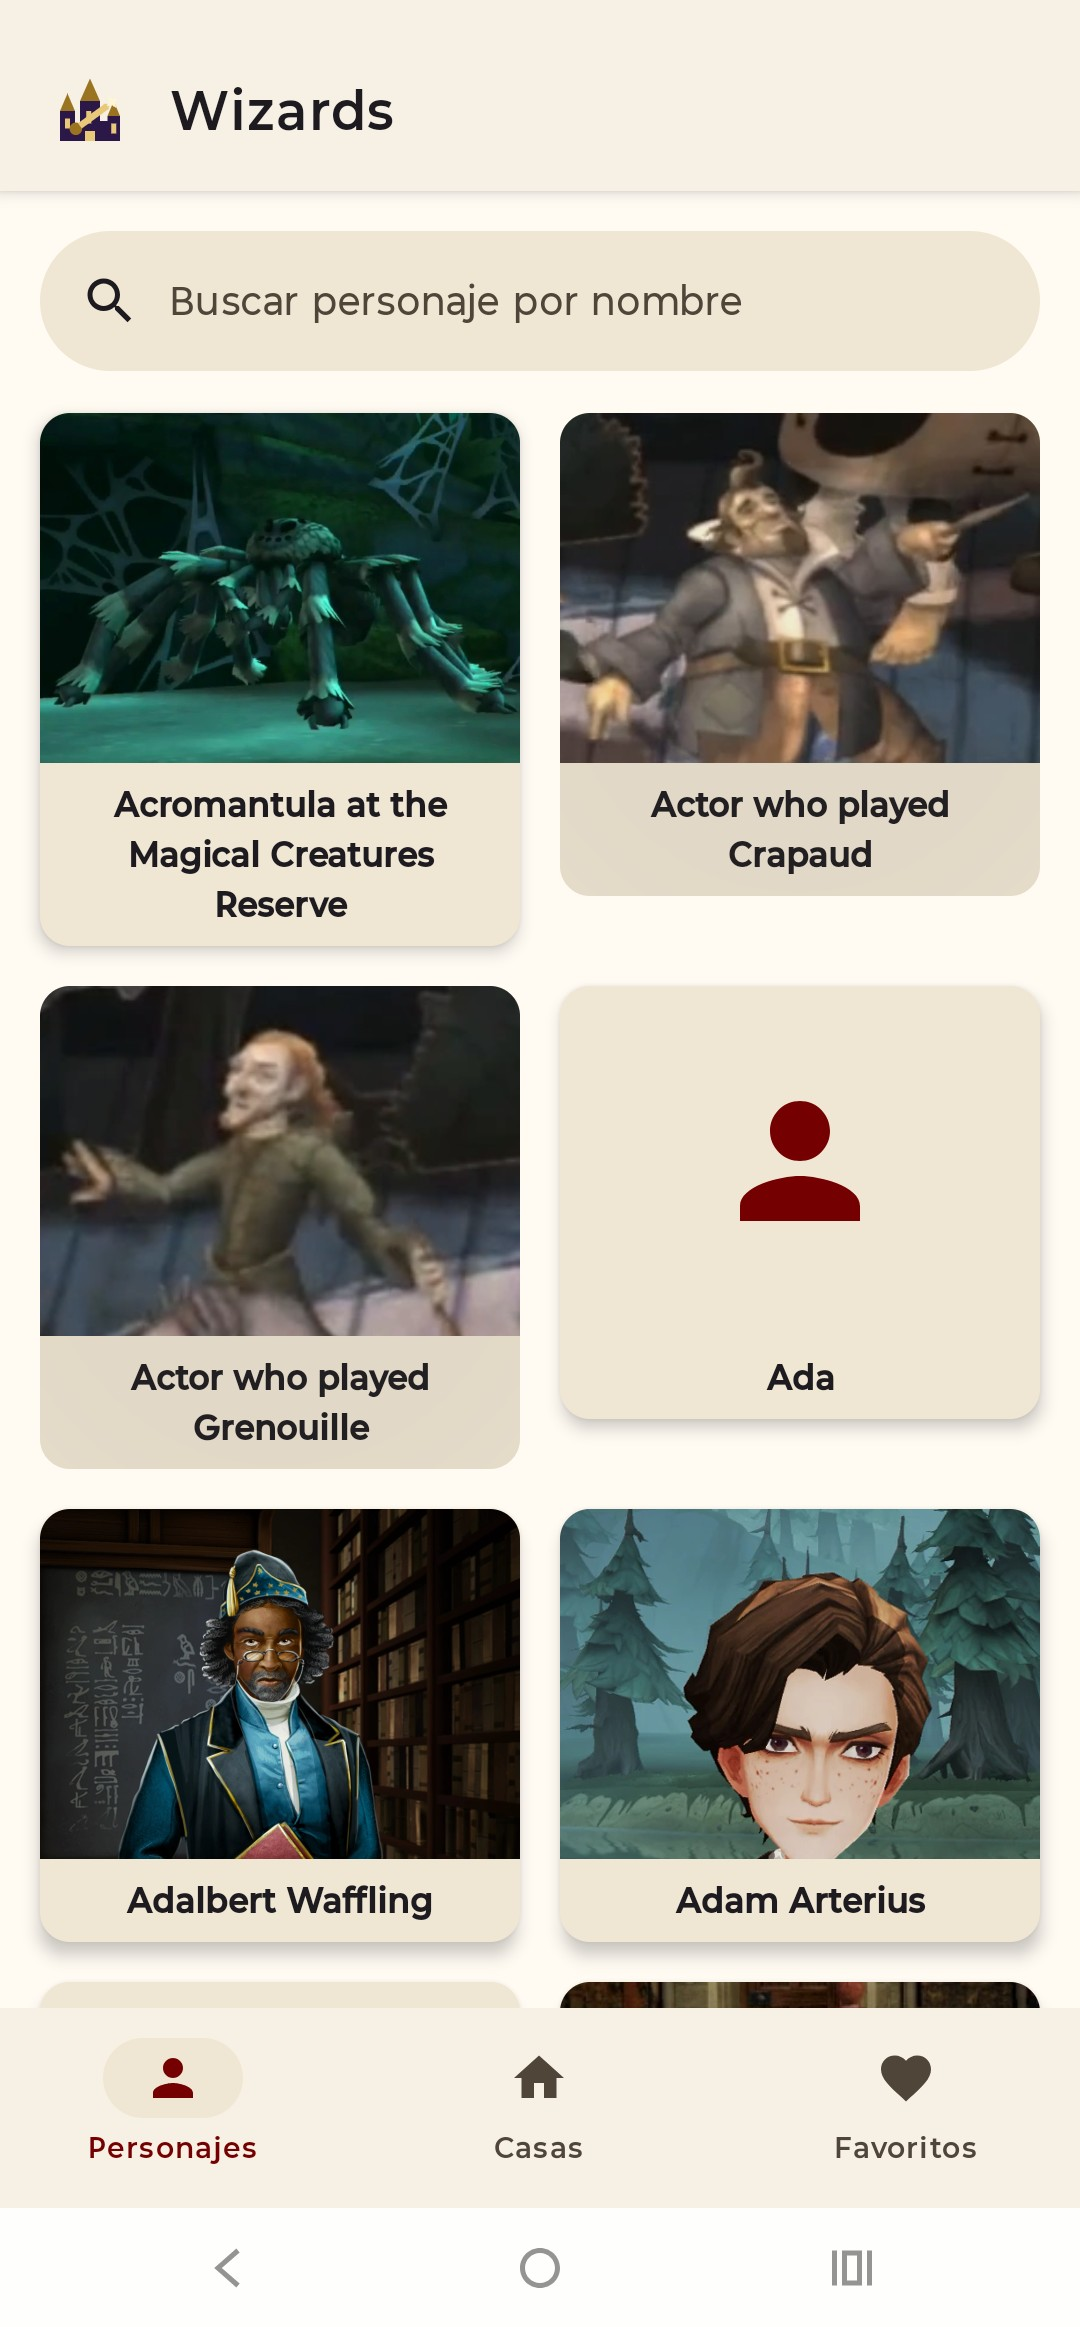
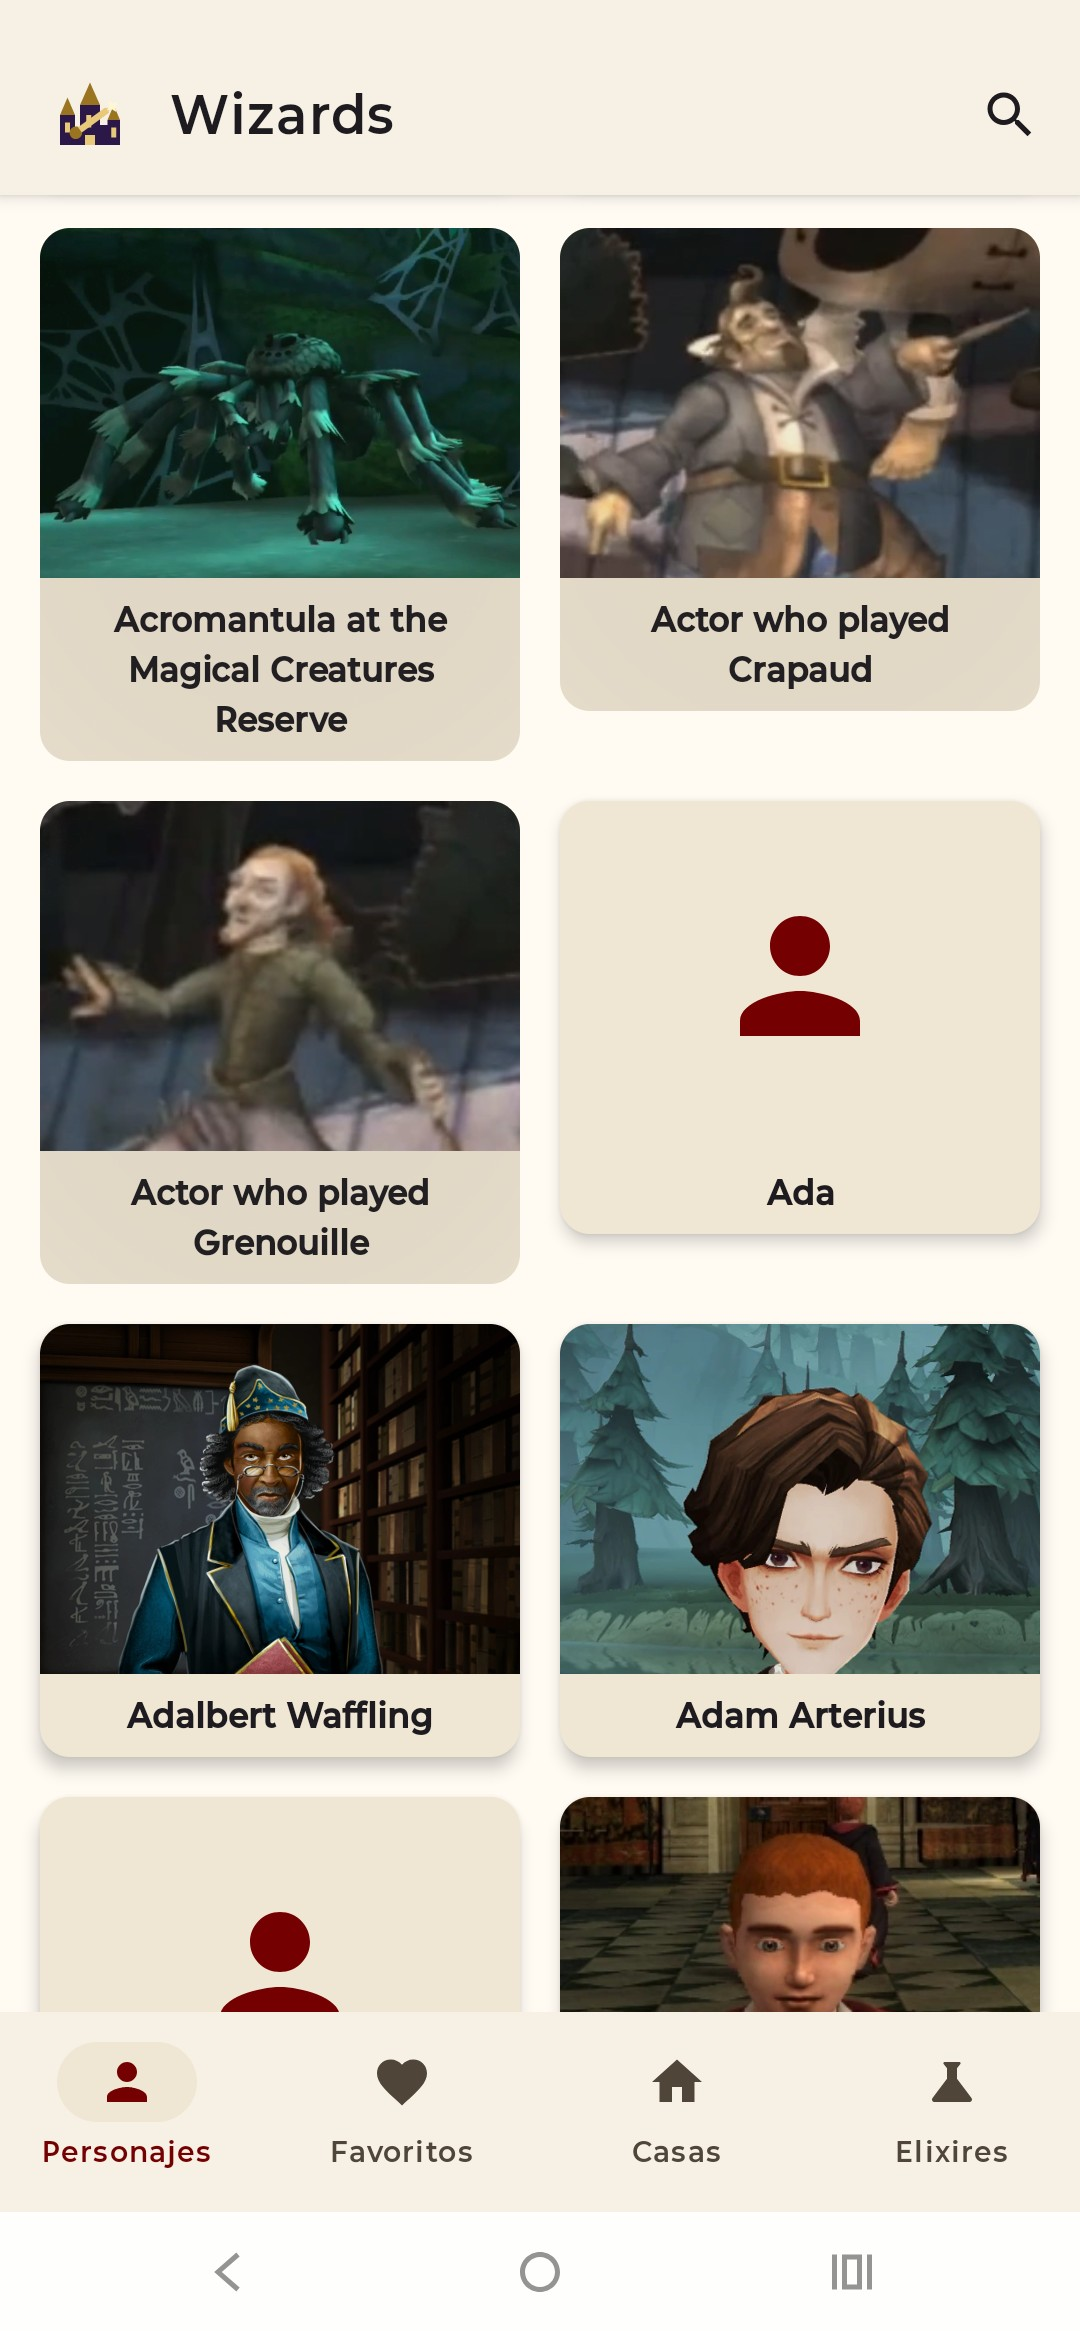
docs: se actualiza el readme con elixires y componentes compartidos

diff --git a/README.md b/README.md
@@ -1,7 +1,7 @@
 # WizardWorld
 
-App **Kotlin Multiplatform** (Android + iOS) para explorar los personajes y las casas del mundo de Harry Potter.
-Permite listar personajes con búsqueda y paginación, ver el detalle de cada uno, marcar favoritos y consultar las casas de Hogwarts.
+App **Kotlin Multiplatform** (Android + iOS) para explorar los personajes, las casas y los elixires del mundo de Harry Potter.
+Permite listar personajes con búsqueda y paginación, ver el detalle de cada uno, marcar favoritos, consultar las casas de Hogwarts y explorar el catálogo de elixires.
 Todo funciona **sin conexión** gracias a una caché local con SQLDelight.
 
 ---
@@ -36,10 +36,19 @@ Base URL: `https://wizard-world-api.herokuapp.com/` (usado en [`HouseRepositoryI
 | `GET /Houses` | Lista de casas |
 | `GET /Houses/{id}` | Detalle de una casa |
 
+### Elixires: Wizard World API
+
+Misma base URL, cliente en [`WizardWorldApi.kt`](./sharedLogic/src/commonMain/kotlin/com/example/wizardworld/data/remote/WizardWorldApi.kt).
+
+| Endpoint | Uso | Parámetros |
+|---|---|---|
+| `GET /Elixirs` | Lista de elixires | filtros opcionales `name`, `difficulty`, `ingredient`, `inventorFullName`, `manufacturer` |
+| `GET /Elixirs/{id}` | Detalle de un elixir | `id` del elixir |
+
 > **Nota sobre el cambio de API:** al principio los personajes se obtenían de la Wizard World API con `GET /Wizards` y `GET /Wizards/{id}`
 > ([`WizardWorldApi.kt`](./sharedLogic/src/commonMain/kotlin/com/example/wizardworld/data/remote/WizardWorldApi.kt)).
 > Como `/Wizards` solo devuelve nombre, apellido y elixires (sin imagen, casa ni datos biográficos), en el issue [#44](https://github.com/LucasGA10/WizardWorld/issues/44)
-> se migró a **PotterDB**, que trae toda la información que necesitan la lista y el detalle.
+> se migró a **PotterDB**, que trae toda la información que necesitan la lista y el detalle. Hoy `WizardWorldApi` se usa para los elixires y los métodos de `/Wizards` quedaron sin uso.
 
 ### Campos que se muestran
 
@@ -59,6 +68,19 @@ Base URL: `https://wizard-world-api.herokuapp.com/` (usado en [`HouseRepositoryI
 - Enlace a la wiki de Harry Potter
 - Botón para agregar / quitar de favoritos
 
+**Lista de elixires** ([`ElixirListScreen`](./sharedUI/src/commonMain/kotlin/com/example/wizardworld/ui/screens/elixirs/ElixirListScreen.kt)), con búsqueda por nombre:
+
+- Nombre
+- Efecto
+- Dificultad
+
+**Detalle del elixir** (misma pantalla):
+
+- Nombre y dificultad
+- Efecto, efectos secundarios y características
+- Tiempo de preparación y fabricante
+- Ingredientes e inventores
+
 ---
 
 ## Arquitectura y justificación
@@ -68,8 +90,8 @@ Base URL: `https://wizard-world-api.herokuapp.com/` (usado en [`HouseRepositoryI
 | Módulo | Contenido |
 |---|---|
 | [`sharedLogic`](./sharedLogic/src) | Lógica compartida: capas **data**, **domain** y **presentation** (ViewModels), DI con Koin y base de datos SQLDelight |
-| [`sharedUI`](./sharedUI/src) | UI compartida en Compose Multiplatform: lista de personajes, tema y componentes comunes (`OfflineBanner`, `ErrorState`, `EmptyState`, shimmer) |
-| [`androidApp`](./androidApp/src) | App Android: navegación con barra inferior, detalle de personaje, favoritos y pantallas de casas |
+| [`sharedUI`](./sharedUI/src) | UI compartida en Compose Multiplatform: lista de personajes, lista y detalle de elixires, tema y componentes comunes (`WizardTopBar`, `WizardSearchBar`, `WizardPullToRefresh`, `OfflineBanner`, `ErrorState`, `EmptyState`, shimmer) |
+| [`androidApp`](./androidApp/src) | App Android: navegación con barra inferior (Personajes, Favoritos, Casas y Elixires), detalle de personaje, favoritos y pantallas de casas |
 | [`iosApp`](./iosApp) | Punto de entrada de la app iOS |
 
 ### Capas: MVVM + Clean Architecture
@@ -90,7 +112,7 @@ Base URL: `https://wizard-world-api.herokuapp.com/` (usado en [`HouseRepositoryI
 ```
 
 - **data**: habla con el mundo exterior. Clientes Ktor (`HpApi`, `WizardWorldApi`), DTOs serializados con kotlinx.serialization, mappers DTO → dominio, data sources locales sobre SQLDelight e implementaciones de los repositorios.
-- **domain**: modelos puros (`HpCharacter`, `House`, ...), interfaces de repositorio y casos de uso. No depende de Ktor, SQLDelight ni de la UI.
+- **domain**: modelos puros (`HpCharacter`, `House`, `Elixir`, ...), interfaces de repositorio y casos de uso. No depende de Ktor, SQLDelight ni de la UI.
 - **presentation**: ViewModels compartidos que combinan casos de uso y exponen `StateFlow<UiState<T>>` a las pantallas.
 
 **Por qué:** separar en capas hace que cada pieza tenga una sola responsabilidad y se pueda testear por separado
@@ -105,13 +127,14 @@ MVVM encaja naturalmente con Compose: la pantalla solo observa estado y envía e
 | `CharacterRepository` | Lista paginada / búsqueda de personajes y detalle |
 | `HouseRepository` | Lista y detalle de casas |
 | `FavoriteRepository` | Personajes favoritos guardados localmente |
+| `ElixirRepository` | Lista de elixires (con filtros) y detalle |
 
 Las interfaces están en `domain/repository` y las implementaciones en `data/repository`.
 Cada categoría evoluciona de forma independiente (por ejemplo, el cambio de API de personajes a PotterDB no tocó nada de casas) y es fácil reemplazarlas por fakes en los tests.
 
 ### Casos de uso
 
-`GetCharactersUseCase`, `GetCharacterDetailUseCase`, `GetHousesUseCase`, `GetHouseUseCase`,
+`GetCharactersUseCase`, `GetCharacterDetailUseCase`, `GetHousesUseCase`, `GetHouseUseCase`, `GetElixirsUseCase`,
 `ToggleFavoriteUseCase`, `ObserveFavoriteIdsUseCase` y `ObserveFavoriteCharactersUseCase`.
 
 Cada caso de uso representa una acción concreta del usuario. Los ViewModels dependen de ellos y no de los repositorios,
@@ -137,7 +160,7 @@ Todos los repositorios siguen la misma estrategia:
    - con datos → `Offline` (la UI muestra los datos y el banner "sin conexión");
    - sin datos → `Error` (la UI muestra el estado de error con reintento).
 
-Las tablas están en [`sharedLogic/src/commonMain/sqldelight`](./sharedLogic/src/commonMain/sqldelight/com/example/wizardworld/db) (personajes, casas y favoritos) con sus migraciones `.sqm`.
+Las tablas están en [`sharedLogic/src/commonMain/sqldelight`](./sharedLogic/src/commonMain/sqldelight/com/example/wizardworld/db) (personajes, casas, favoritos y elixires) con sus migraciones `.sqm`.
 
 **Por qué network-first:** los datos siempre se muestran actualizados cuando hay conexión y la app sigue siendo usable sin ella.
 SQLDelight genera código Kotlin tipado desde SQL y funciona en Android e iOS, por eso encaja con KMP.
@@ -167,7 +190,7 @@ Requisitos: JDK 17 y Android SDK.
 > Para iOS, abrir [`/iosApp`](./iosApp) en Xcode y ejecutar desde ahí.
 
 Los tests cubren: deserialización de DTOs, clientes de API con `MockEngine` de Ktor, repositorios con caché offline (DB SQLite en memoria),
-favoritos, casos de uso, la conversión `Resource → UiState` y el `CharacterListViewModel`.
+favoritos, mappers, casos de uso, la conversión `Resource → UiState` y los ViewModels (`CharacterListViewModel`, `ElixirListViewModel`).
 
 El CI ([`.github/workflows/ci.yml`](./.github/workflows/ci.yml)) corre los tests y el build de Android en cada PR y en cada push a `develop`.
 
@@ -178,10 +201,10 @@ El CI ([`.github/workflows/ci.yml`](./.github/workflows/ci.yml)) corre los tests
 | Nombre | GitHub | Issues | PRs |
 |---|---|---|---|
 | Juliana Samaniego | [@JSama28](https://github.com/JSama28) | [#21](https://github.com/LucasGA10/WizardWorld/issues/21), [#26](https://github.com/LucasGA10/WizardWorld/issues/26), [#27](https://github.com/LucasGA10/WizardWorld/issues/27), [#46](https://github.com/LucasGA10/WizardWorld/issues/46), [#47](https://github.com/LucasGA10/WizardWorld/issues/47), [#54](https://github.com/LucasGA10/WizardWorld/issues/54) | [#31](https://github.com/LucasGA10/WizardWorld/pull/31), [#48](https://github.com/LucasGA10/WizardWorld/pull/48), [#51](https://github.com/LucasGA10/WizardWorld/pull/51), [#52](https://github.com/LucasGA10/WizardWorld/pull/52), [#56](https://github.com/LucasGA10/WizardWorld/pull/56), [#60](https://github.com/LucasGA10/WizardWorld/pull/60) |
-| Lucas | [@LucasGA10](https://github.com/LucasGA10) | [#1](https://github.com/LucasGA10/WizardWorld/issues/1), [#3](https://github.com/LucasGA10/WizardWorld/issues/3), [#15](https://github.com/LucasGA10/WizardWorld/issues/15), [#17](https://github.com/LucasGA10/WizardWorld/issues/17), [#20](https://github.com/LucasGA10/WizardWorld/issues/20), [#32](https://github.com/LucasGA10/WizardWorld/issues/32), [#44](https://github.com/LucasGA10/WizardWorld/issues/44), [#53](https://github.com/LucasGA10/WizardWorld/issues/53), [#58](https://github.com/LucasGA10/WizardWorld/issues/58) | [#13](https://github.com/LucasGA10/WizardWorld/pull/13), [#29](https://github.com/LucasGA10/WizardWorld/pull/29), [#33](https://github.com/LucasGA10/WizardWorld/pull/33), [#42](https://github.com/LucasGA10/WizardWorld/pull/42), [#43](https://github.com/LucasGA10/WizardWorld/pull/43), [#45](https://github.com/LucasGA10/WizardWorld/pull/45), [#57](https://github.com/LucasGA10/WizardWorld/pull/57) |
-| Aguirre | [@palocipriano](https://github.com/palocipriano) | [#5](https://github.com/LucasGA10/WizardWorld/issues/5), [#8](https://github.com/LucasGA10/WizardWorld/issues/8), [#19](https://github.com/LucasGA10/WizardWorld/issues/19), [#23](https://github.com/LucasGA10/WizardWorld/issues/23) | [#30](https://github.com/LucasGA10/WizardWorld/pull/30), [#35](https://github.com/LucasGA10/WizardWorld/pull/35) |
+| Lucas | [@LucasGA10](https://github.com/LucasGA10) | [#1](https://github.com/LucasGA10/WizardWorld/issues/1), [#3](https://github.com/LucasGA10/WizardWorld/issues/3), [#15](https://github.com/LucasGA10/WizardWorld/issues/15), [#17](https://github.com/LucasGA10/WizardWorld/issues/17), [#20](https://github.com/LucasGA10/WizardWorld/issues/20), [#32](https://github.com/LucasGA10/WizardWorld/issues/32), [#44](https://github.com/LucasGA10/WizardWorld/issues/44), [#53](https://github.com/LucasGA10/WizardWorld/issues/53), [#58](https://github.com/LucasGA10/WizardWorld/issues/58) | [#13](https://github.com/LucasGA10/WizardWorld/pull/13), [#29](https://github.com/LucasGA10/WizardWorld/pull/29), [#33](https://github.com/LucasGA10/WizardWorld/pull/33), [#42](https://github.com/LucasGA10/WizardWorld/pull/42), [#43](https://github.com/LucasGA10/WizardWorld/pull/43), [#45](https://github.com/LucasGA10/WizardWorld/pull/45), [#57](https://github.com/LucasGA10/WizardWorld/pull/57), [#69](https://github.com/LucasGA10/WizardWorld/pull/69), [#71](https://github.com/LucasGA10/WizardWorld/pull/71) |
+| Aguirre | [@palocipriano](https://github.com/palocipriano) | [#5](https://github.com/LucasGA10/WizardWorld/issues/5), [#8](https://github.com/LucasGA10/WizardWorld/issues/8), [#19](https://github.com/LucasGA10/WizardWorld/issues/19), [#23](https://github.com/LucasGA10/WizardWorld/issues/23), [#36](https://github.com/LucasGA10/WizardWorld/issues/36), [#37](https://github.com/LucasGA10/WizardWorld/issues/37), [#38](https://github.com/LucasGA10/WizardWorld/issues/38), [#39](https://github.com/LucasGA10/WizardWorld/issues/39), [#40](https://github.com/LucasGA10/WizardWorld/issues/40), [#41](https://github.com/LucasGA10/WizardWorld/issues/41) | [#30](https://github.com/LucasGA10/WizardWorld/pull/30), [#35](https://github.com/LucasGA10/WizardWorld/pull/35), [#61](https://github.com/LucasGA10/WizardWorld/pull/61), [#62](https://github.com/LucasGA10/WizardWorld/pull/62), [#64](https://github.com/LucasGA10/WizardWorld/pull/64), [#65](https://github.com/LucasGA10/WizardWorld/pull/65), [#66](https://github.com/LucasGA10/WizardWorld/pull/66), [#67](https://github.com/LucasGA10/WizardWorld/pull/67), [#68](https://github.com/LucasGA10/WizardWorld/pull/68), [#70](https://github.com/LucasGA10/WizardWorld/pull/70) |
 | Franco Viscarret | [@FrancoViscarret](https://github.com/FrancoViscarret) | [#10](https://github.com/LucasGA10/WizardWorld/issues/10), [#11](https://github.com/LucasGA10/WizardWorld/issues/11), [#12](https://github.com/LucasGA10/WizardWorld/issues/12) | [#14](https://github.com/LucasGA10/WizardWorld/pull/14) |
-| Rocío Daniela Vera | [@RocioDanielaVera](https://github.com/RocioDanielaVera) | [#2](https://github.com/LucasGA10/WizardWorld/issues/2), [#4](https://github.com/LucasGA10/WizardWorld/issues/4), [#5](https://github.com/LucasGA10/WizardWorld/issues/5), [#6](https://github.com/LucasGA10/WizardWorld/issues/6), [#7](https://github.com/LucasGA10/WizardWorld/issues/7), [#9](https://github.com/LucasGA10/WizardWorld/issues/9), [#25](https://github.com/LucasGA10/WizardWorld/issues/25), [#28](https://github.com/LucasGA10/WizardWorld/issues/28), [#34](https://github.com/LucasGA10/WizardWorld/issues/34) | [#16](https://github.com/LucasGA10/WizardWorld/pull/16), [#24](https://github.com/LucasGA10/WizardWorld/pull/24), [#49](https://github.com/LucasGA10/WizardWorld/pull/49), [#50](https://github.com/LucasGA10/WizardWorld/pull/50) |
+| Rocío Daniela Vera | [@RocioDanielaVera](https://github.com/RocioDanielaVera) | [#2](https://github.com/LucasGA10/WizardWorld/issues/2), [#4](https://github.com/LucasGA10/WizardWorld/issues/4), [#5](https://github.com/LucasGA10/WizardWorld/issues/5), [#6](https://github.com/LucasGA10/WizardWorld/issues/6), [#7](https://github.com/LucasGA10/WizardWorld/issues/7), [#9](https://github.com/LucasGA10/WizardWorld/issues/9), [#25](https://github.com/LucasGA10/WizardWorld/issues/25), [#28](https://github.com/LucasGA10/WizardWorld/issues/28), [#34](https://github.com/LucasGA10/WizardWorld/issues/34) | [#16](https://github.com/LucasGA10/WizardWorld/pull/16), [#24](https://github.com/LucasGA10/WizardWorld/pull/24), [#49](https://github.com/LucasGA10/WizardWorld/pull/49), [#50](https://github.com/LucasGA10/WizardWorld/pull/50), [#63](https://github.com/LucasGA10/WizardWorld/pull/63) |
 
 ---
 
@@ -190,3 +213,7 @@ El CI ([`.github/workflows/ci.yml`](./.github/workflows/ci.yml)) corre los tests
 | Lista de personajes | Detalle del personaje | Modo offline |
 |:---:|:---:|:---:|
 | <img src="docs/screenshots/lista.png" width="250" alt="Lista de personajes"/> | <img src="docs/screenshots/detalle.png" width="250" alt="Detalle del personaje"/> | <img src="docs/screenshots/offline.png" width="250" alt="Modo offline"/> |
+
+| Favoritos | Casas | Elixires |
+|:---:|:---:|:---:|
+| <img src="docs/screenshots/favoritos.png" width="250" alt="Favoritos"/> | <img src="docs/screenshots/casas.png" width="250" alt="Casas"/> | <img src="docs/screenshots/elixires.png" width="250" alt="Elixires"/> |
